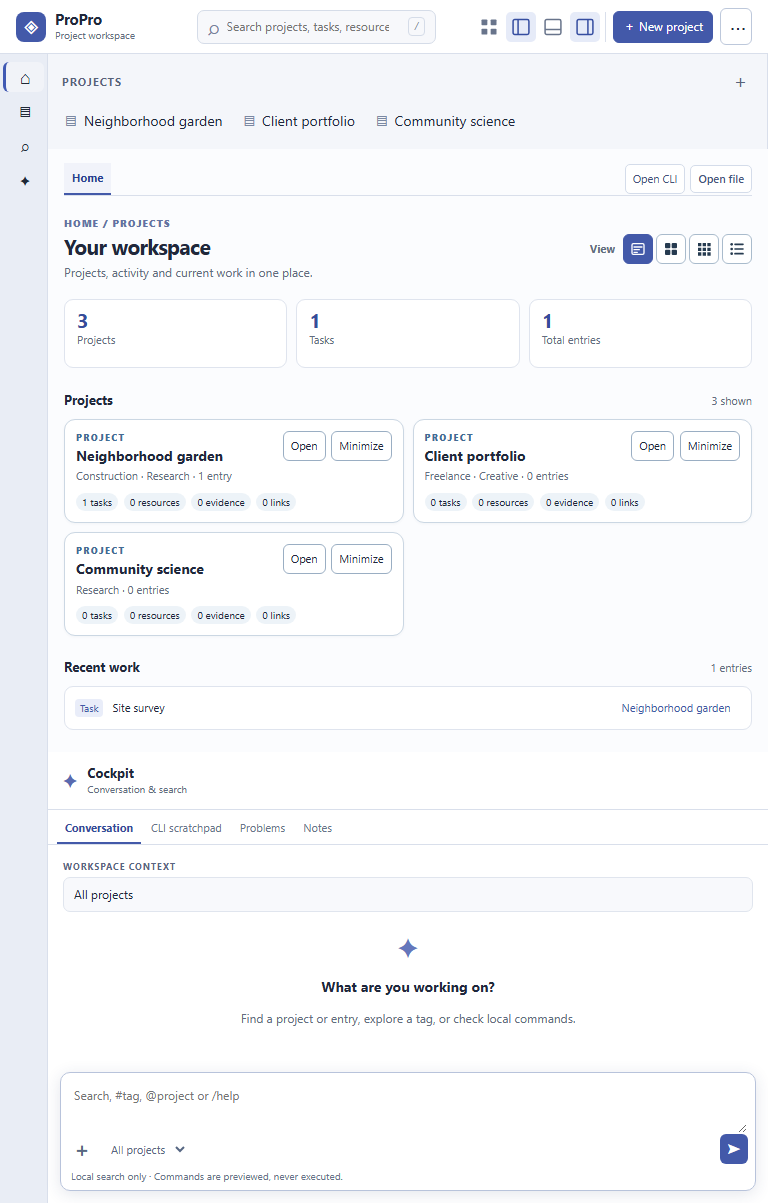
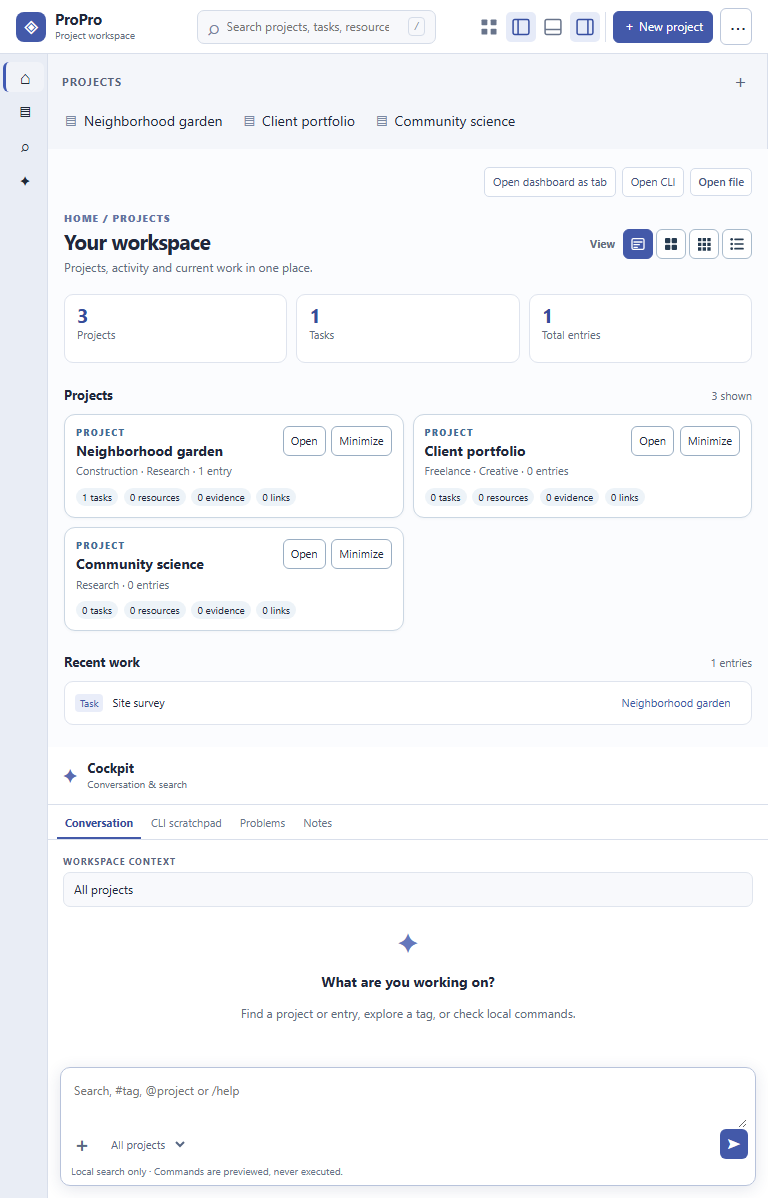
feat: return Home to central dashboard view
Change-Level: DRIVE
Dev-Docs: updated
Validation: 9 browser and 2 model PASS; 1280px and 390px captures inspected; planning validation PASS

diff --git a/styles.css b/styles.css
@@ -191,6 +191,9 @@ body { background:#f5f6fa; }
   #workbench.context-bottom .conversation-view .composer { grid-column:2; grid-row:1; }
 }
 .editor-tabs { display:flex; align-items:stretch; gap:8px; min-width:0; margin:-8px 0 18px; border-bottom:1px solid var(--border); }
+.editor-tabs[hidden],.home-actions[hidden],.home-actions button[hidden] { display:none!important; }
+.home-actions { display:flex; align-items:center; justify-content:flex-end; flex-wrap:wrap; gap:6px; margin:-4px 0 12px; }
+.home-actions > button { min-height:28px; padding:4px 8px; border:1px solid #d4dcea; border-radius:5px; background:#fff; color:#43527a; font-size:11px; }
 #editor-tab-list { display:flex; flex:1; min-width:0; gap:2px; overflow-x:auto; }
 .editor-tab-item { display:flex; flex:none; align-items:center; border-bottom:2px solid transparent; }
 .editor-tab-item:has([aria-selected="true"]) { border-bottom-color:#4359a9; background:#f1f3fa; }
@@ -212,3 +215,8 @@ body { background:#f5f6fa; }
 .workspace-text { min-height:300px; max-height:70vh; overflow:auto; padding:16px; border:1px solid #dfe4ee; border-radius:7px; background:#fff; white-space:pre-wrap; overflow-wrap:anywhere; font:12px/1.55 Consolas,monospace; }
 .workspace-pdf { display:block; width:100%; height:70vh; border:1px solid #dfe4ee; border-radius:7px; background:#fff; }
 @media(max-width:700px) { .editor-tabs { flex-wrap:wrap; margin-top:0; } #editor-tab-list { flex-basis:100%; } .editor-actions { padding-bottom:5px; } }
+@media(max-width:1050px) {
+  #workbench.cockpit-workbench { grid-template-columns:48px minmax(0,1fr); grid-template-rows:auto; }
+  #workbench > #explorer,#workbench > #content,#workbench > #context { grid-column:2; grid-row:auto; }
+  #workbench > .cockpit-workbench__activity { grid-column:1; grid-row:1 / span 3; }
+}

diff --git a/docs/PROP-CKP-001B-IMPLEMENTATION.md b/docs/PROP-CKP-001B-IMPLEMENTATION.md
@@ -77,6 +77,10 @@ Package provenance: Cockpit GUI source commit `35ec769ea4e74d8357fad4d75b735ee9d
 
 ### Center editor and viewer tabs — 2026-11-05
 
-Owner clarification separates the central work area from the movable surrounding panes. ProPro now keeps Home as a center tab; opening a project activates its own center tab. Open CLI creates a separate local command-preview tab without relocating or replacing the bottom panel. Open file accepts local text, Markdown, selected code formats and PDF for a read-only center preview. Text is inserted as text, never executed or interpreted as HTML; PDFs use a browser object URL that is revoked when the tab closes. File contents are held only for this page session, with no upload or project-data mutation. Tabs support selection, close actions and keyboard arrow/Home/End navigation. Project records retain their version 1 schema. `docs/screenshots/propro-editor-tabs-1280.png` and `docs/screenshots/propro-editor-tabs-390.png` are running captures. Browser checks cover project tabs, CLI draft retention between tabs, local file display, script-text non-execution, close behavior, narrow layout and project-data isolation.
+Owner clarification separates the central work area from the movable surrounding panes. ProPro shows Home as the center dashboard view; opening a project activates its own center tab. Open CLI creates a separate local command-preview tab without relocating or replacing the bottom panel. Open file accepts local text, Markdown, selected code formats and PDF for a read-only center preview. Text is inserted as text, never executed or interpreted as HTML; PDFs use a browser object URL that is revoked when the tab closes. File contents are held only for this page session, with no upload or project-data mutation. Tabs support selection, close actions and keyboard arrow/Home/End navigation. Project records retain their version 1 schema. `docs/screenshots/propro-editor-tabs-1280.png` and `docs/screenshots/propro-editor-tabs-390.png` are running captures. Browser checks cover project tabs, CLI draft retention between tabs, local file display, script-text non-execution, close behavior, narrow layout and project-data isolation.
 
 The left activity rail, expandable Explorer, bottom utility panel and right conversation panel remain separate from center work tabs. This slice does not provide a live terminal, writable document editor, connected agent session or web-page tab; those require host session/file/provider contracts, save and recovery rules, and permission review. The previous tabbed utility panel is still a panel view, not the implementation of the main editor area.
+
+### Home returns to the dashboard view — 2026-11-05
+
+The owner clarified that Home is the center dashboard destination, not a permanent editor tab. The default dashboard and Home activity now hide the center tab strip. Open project, CLI and local-file tabs stay in memory and a Resume work action restores the most recent work tab. Open dashboard as tab is an explicit option; using Home afterward returns to the untabbed dashboard. Current dashboard customization includes card view choices and per-card minimization; arbitrary home widgets and saved dashboard arrangements remain future work. A 390px browser check found and fixed a host responsive layout defect when Explorer was hidden: center content and the conversation pane now stack without overlapping the activity rail. The running `propro-home-no-explorer-390.png` capture records that state.
